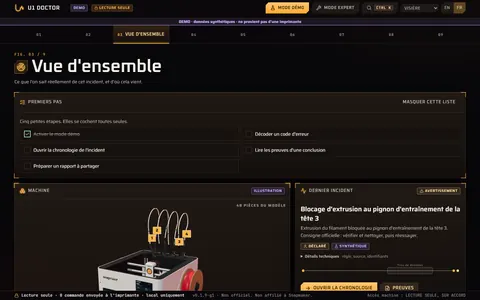
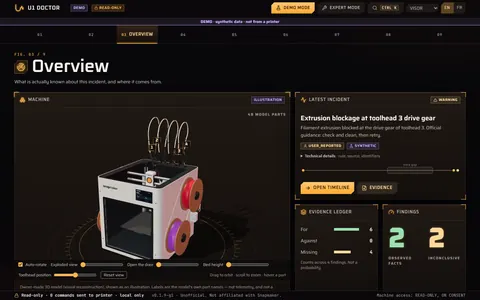
docs: Show the four UI V2 themes in the README and status
Regenerate the eleven README screenshots in the default Obsidienne theme
with a script kept in the repository (frontend/scripts/capture-screens.mjs),
add a sheet of the Overview in the four themes and describe them, and record
what is integrated and what is left in the status, the UI V2 notes and the
implementation plan.

Time the Visière title decode on the clock (0.6 s) instead of counting
frames, so a busy page no longer stretches it, and refresh the Settings
captures.

diff --git a/frontend/src/themes/useDecode.ts b/frontend/src/themes/useDecode.ts
@@ -1,23 +1,26 @@
 import { useEffect, useState } from "react";
 
 const GLYPHS = "ABCDEFGHJKLMNPRSTUVWXYZ0123456789#/<>";
+const DURATION = 600;
+const calm = () => typeof matchMedia !== "function" || matchMedia("(prefers-reduced-motion: reduce)").matches;
+const scramble = (text: string, done: number, tick: number) =>
+  text.split("").map((c, i) => (i < done || c === " " ? c : GLYPHS[(i * 7 + tick * 3) % GLYPHS.length])).join("");
 
 /**
- * Visière signature: a title that deciphers itself (about 0.6 s). Only the visible copy changes; the heading keeps its
- * real text as its accessible name. Off without matchMedia, under reduced motion, or when `on` is false.
+ * Visière signature: a title that deciphers itself in 0.6 s of wall-clock time (a busy page only drops steps).
+ * Only the visible copy changes; the heading keeps its real text as its accessible name.
+ * Off without matchMedia, under reduced motion, or when `on` is false.
  */
 export function useDecode(text: string, on: boolean): string {
-  const [shown, setShown] = useState(text);
+  const [shown, setShown] = useState(() => (on && !calm() ? scramble(text, 0, 0) : text));
   useEffect(() => {
-    const calm = typeof matchMedia !== "function" || matchMedia("(prefers-reduced-motion: reduce)").matches;
-    if (!on || calm) { setShown(text); return; }
-    let frame = 0;
-    const steps = 18;
+    if (!on || calm()) { setShown(text); return; }
+    const start = performance.now();
+    let tick = 0;
     const id = window.setInterval(() => {
-      frame++;
-      const fixed = Math.floor((frame / steps) * text.length);
-      setShown(text.split("").map((c, i) => (i < fixed || c === " " ? c : GLYPHS[(i * 7 + frame * 3) % GLYPHS.length])).join(""));
-      if (frame >= steps) { window.clearInterval(id); setShown(text); }
+      const k = (performance.now() - start) / DURATION;
+      if (k >= 1) { window.clearInterval(id); setShown(text); return; }
+      setShown(scramble(text, Math.floor(k * text.length), ++tick));
     }, 34);
     return () => window.clearInterval(id);
   }, [text, on]);

diff --git a/U1_DOCTOR_PLAN_IMPLEMENTATION_THEMES.md b/U1_DOCTOR_PLAN_IMPLEMENTATION_THEMES.md
@@ -162,3 +162,6 @@ Outils déjà présents : vitest, Testing Library, Playwright, axe-core. Le banc
 
 - **Étape 1 faite** (branche `feat/ui-v2-themes`) : `frontend/src/themes/registry.ts` (`ThemeId`, `THEMES`, `DEFAULT_THEME`, `resolveTheme`), migration dans `lib/prefs.tsx`, 4 jeux de jetons dans `design/tokens.css` (vocabulaire actuel conservé, les écrans ne changent pas), sélecteur et Réglages à 4 thèmes, libellés FR/EN, tests `tests/themes.test.tsx` + `tests/contrast.test.ts` sur les 4 thèmes. Écart au plan : pas de CSS de thème chargé à la demande, car il n'y a encore rien à charger (que des jetons, 2 Ko) ; il arrive avec les signatures, étape 4.
 - **Étape 2 faite, polices** : 9 familles Fontsource 5.3.0 épinglées (OFL), Inter retirée ; jetons `--font-display` / `--font-ui` / `--font-mono` par thème, titres sur `--font-display`. Toutes les `@font-face` sont déclarées d'emblée : le navigateur ne télécharge que les fichiers du thème affiché, donc un seul thème en mémoire sans chargement à la demande. Tests : `tests/theme-parity.test.tsx` (même texte visible dans les 4 thèmes, FR et EN), e2e « polices locales et zéro requête externe » par thème (20/20 sous Edge), `THIRD_PARTY_NOTICES.md`. Écarts : Doto, Permanent Marker et Courier Prime arrivent avec les signatures de Pupitre (étape 8) ; `useDiagnosis()` est reporté à l'étape 3, où ses consommateurs (VerdictCard, StepList…) fixent sa forme, plutôt que d'inventer l'objet à vide ; le texte intégral de l'OFL doit être joint à l'exe à la release (étape 10).
+- **Étapes 3 à 9 faites, sous une forme différente du plan** : au lieu de nouveaux écrans calqués sur les planches, les écrans existants reçoivent la peau de chaque thème (`themes/<id>/theme.css` : barre, onglets, panneaux, boutons, puces, champs, titres, mouvement d'entrée), la barre du haut n'a plus de couleurs codées en dur, la 3D suit le thème (`viz/looks.ts` : Notice au trait, Visière chaude avec liseré rouge), les Réglages montrent de vraies captures et la bascule se fait en fondu (View Transitions, coupé sous réduction des mouvements). Signatures portées sur les écrans existants : titres et chiffres LCD (Pupitre), titre qui se décode (Visière), repères des têtes par thème. Tests e2e par thème : axe sans violation grave ni critique et aucun défilement horizontal à 1024 et 1440 px sur 7 écrans. Deux défauts d'accessibilité anciens corrigés (nom de l'onglet actif, blocs `<pre>` non focalisables).
+- **Pas fait** : la structure d'écrans des planches (dock à 5 entrées, Accueil en tuiles, Verdict guidé, Diagnostiquer) et leurs pièces interactives (galvanomètre, ticket, clavier, bouton rotatif, capot, radar, appui long, loupe liquide, vols de caméra) ; critère « captures conformes aux planches à ±4 px » sans objet tant que ces écrans n'existent pas ; images/s en fenêtre visible non mesurées.
+- **Étape 10 (docs)** : README (captures régénérées en Obsidienne par `frontend/scripts/capture-screens.mjs`, planche des 4 thèmes `docs/media/themes.jpg`), état d'implémentation, fiche UI V2. Release non faite : attend l'accord du propriétaire.

diff --git a/README.md b/README.md
@@ -50,7 +50,13 @@ U1 Doctor runs **on your own PC**. It gives you three things:
 |---|---|---|
 | ![Overview](docs/media/screens/03-overview.png) | ![Timeline](docs/media/screens/06-timeline.png) | ![Error codes](docs/media/screens/04-error-codes.png) |
 
-Screenshots were taken in **Expert mode** with **demo mode** on, which shows the built-in **synthetic demo data** (the `DEMO` banner is visible whenever it is on). All 11 screens are in [`docs/media/screens/`](docs/media/screens/).
+Screenshots were taken in the default **Obsidienne** theme, in **Expert mode** with **demo mode** on, which shows the built-in **synthetic demo data** (the `DEMO` banner is visible whenever it is on). All 11 screens are in [`docs/media/screens/`](docs/media/screens/).
+
+### Four themes
+
+![The Overview in the four themes: Pupitre, Notice, Obsidienne and Visière](docs/media/themes.jpg)
+
+**Pupitre** (top left) turns the app into the U1's hardware console: keys, screwed plastic modules, titles on an amber LCD. **Notice** (top right) reads like an illustrated manual: white paper, black outlines, the 3D printer drawn in lines; it is the easiest to read. **Obsidienne** (bottom left, the default) is dark frosted glass. **Visière** (bottom right) is a warm head-up display with gold corner marks. Pick one in Settings or in the top bar. A theme changes the look only, never what the app says, and a theme chosen in an older version is carried over (light becomes Notice, graphite becomes Pupitre, night becomes Obsidienne). All fonts ship with the app.
 
 ## What is inside: the 11 screens
 
@@ -66,7 +72,7 @@ Screenshots were taken in **Expert mode** with **demo mode** on, which shows the
 | 08 | **Evidence detail** | The observations behind every finding, with source, time quality and hashes (in the menu in Expert mode; in Simple mode it opens from "Open" on a finding) |
 | 09 | **Replay lab** | Rerun the rules on frozen synthetic data and check the result is identical, byte for byte (in the menu in Expert mode) |
 | 10 | **Report composer** | Prepare a privacy-checked **evidence bundle** of the demo scenario or of **your own saved capture**, import someone else's, and copy a **ticket-ready summary** (versions, code, toolhead, LAN or cloud, filaments, what you tried, capture facts) for a support ticket or a forum post |
-| 11 | **Settings** | Language (English or French), **Simple or Expert** display level, 3 themes, 2 densities, replay of the guided start, versions and the compatibility list |
+| 11 | **Settings** | Language (English or French), **Simple or Expert** display level, 4 themes (Pupitre, Notice, Obsidienne, Visière), 2 densities, replay of the guided start, versions and the compatibility list |
 
 Press `Ctrl K` anywhere to jump to a screen or paste an error code.
 

diff --git a/IMPLEMENTATION_STATUS.md b/IMPLEMENTATION_STATUS.md
@@ -35,6 +35,12 @@ States: PLANNED · IMPLEMENTED_UNTESTED · TESTED_SYNTHETIC · TESTED_REAL · BL
 Tests run (Windows, Python 3.14 venv, 2026-11-09): `pytest` **1213 passed** · `vitest` **184 passed** · 16 Playwright e2e tests (run in CI) · `ruff` clean · `mypy app` clean · `tsc --noEmit` clean · `vite build` OK. CI (Python 3.12, Linux/Windows/macOS) green on main.
 Deviations: stdlib migrations instead of Alembic (ADR-0004); no TanStack Query / i18n lib (plain fetch + dictionary).
 
+## UI V2 themes (2026-11-10) — **integrated on branch `feat/ui-v2-themes`, not released yet**
+- Four themes replace light / graphite / night: Pupitre, Notice, Obsidienne (default), Visière (`frontend/src/themes/`: registry, one skin per theme, View Transitions switch); saved themes migrate once (light → notice, graphite → pupitre, night → obsidienne).
+- Colour tokens and fonts per theme (10 Fontsource families, offline, `THIRD_PARTY_NOTICES.md`); the 3D viewer follows the theme (Notice line drawing, Visière warm light with a red rim); Settings shows a real capture of each theme.
+- Tests: vitest **203 passed** (registry, migration, token set and contrast per theme, same visible text in every theme) · e2e **24 passed** under Edge (local fonts and no foreign request per theme; axe without serious or critical violation and no horizontal scroll at 1024 and 1440 px on 7 screens per theme).
+- Not done: the mockups' own screen layouts and interactive parts (bottom dock, guided Verdict, galvanometer, ticket printer, keypad, rotary knob, radar, hold-to-confirm, liquid lens, camera flights), real FPS in a visible window, screen-reader pass.
+
 ## G0.5 — Product design & UX (2026-11-05) — **prototype built, design VALIDATED by owner 2026-11-05 (improvements later)**
 - Design docs: `docs/design/{DESIGN_VISION,DESIGN_SYSTEM,UX_ARCHITECTURE,COMPONENT_INVENTORY,REVIEW_G0.5-D,MOCKUP_AUDIT,3D_MODEL}.md`.
 - Frontend rewritten on a token-based design system (3 themes), 10 screens (4 priority at full fidelity), command palette, 3D viewer (three.js, lazy).

diff --git a/docs/design/ui-v2/README.md b/docs/design/ui-v2/README.md
@@ -71,9 +71,8 @@ Rapport complet : `U1_DOCTOR_AUDIT_4_THEMES.md` ; plan d'intégration : `U1_DOCT
 - Visière : si la U1 de l'app reste le modèle 3D, l'hologramme et le scan se font sur le modèle (contours du GLB) plutôt qu'avec une image ; jamais d'hologramme généré par IA. Le rouge reste réservé aux alertes.
 - Curseur `.thumb` des sélecteurs : la règle `.seg>span` écrasait `position:absolute` ; corrigé partout par `.seg>.thumb` (audit du 2026-11-10). À ne pas reproduire dans le code.
 
-## Prochaines étapes
+## Intégration dans l'app (2026-11-10, branche `feat/ui-v2-themes`)
 
-1. Remplacer le type `Theme` (`light | graphite | night`) par `pupitre | notice | obsidienne | visiere`, avec migration de la préférence enregistrée (`u1d.theme`). Garder le système de thèmes ouvert à d'autres thèmes.
-2. Écrire un jeu de tokens par thème dans `frontend/src/design/tokens.css`, puis les composants propres à chaque thème (galvanomètre, ticket, loupe, illustrations, réticule, radar, hologramme).
-3. Choisir le thème par défaut et la bascule dans Réglages.
-4. Mettre à jour README, Pages, captures et release une fois le code livré.
+Fait : registre `frontend/src/themes/registry.ts` (Obsidienne par défaut, migration light → notice, graphite → pupitre, night → obsidienne), jetons et polices par thème, une peau par thème (`themes/<id>/theme.css`) sur tous les écrans, 3D selon le thème (`viz/looks.ts`), Réglages avec vraies captures et fondu, titre qui se décode (Visière), titres et chiffres LCD (Pupitre). Détail et écarts : `U1_DOCTOR_PLAN_IMPLEMENTATION_THEMES.md`.
+
+Reste, à décider avec le propriétaire : la structure d'écrans des planches (dock en bas à 5 entrées, Accueil en tuiles, Verdict guidé pas à pas, Diagnostiquer) et leurs pièces interactives (galvanomètre, ticket, clavier, bouton rotatif, capot, radar, appui long, loupe liquide, vols de caméra). C'est une refonte des écrans, pas des thèmes.
